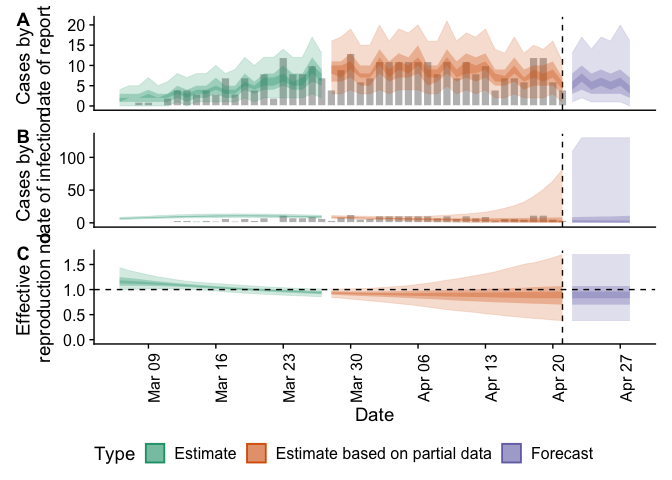
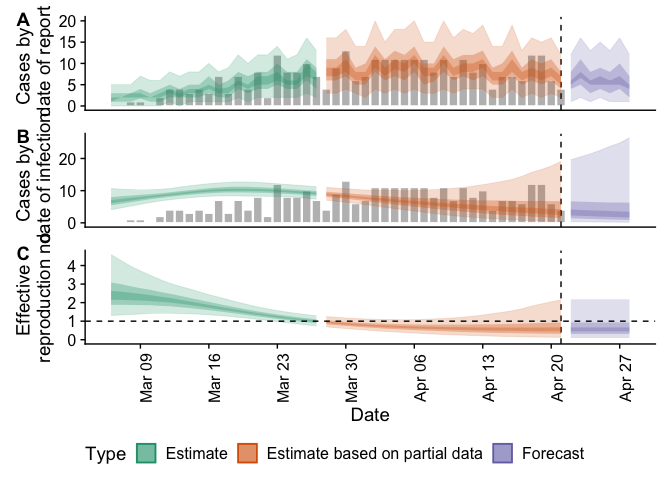
re-render report

diff --git a/inst/reports/est_trunc_epinow2.md b/inst/reports/est_trunc_epinow2.md
@@ -6,7 +6,7 @@ EpiNow2
 
 ``` r
 suppressPackageStartupMessages(library("EpiNow2"))
-suppressPackageStartupMessages(library("mpx.nowcasting")) ## devtools::install()
+suppressPackageStartupMessages(library("nowcasting.example")) ## devtools::install()
 suppressPackageStartupMessages(library("dplyr"))
 suppressPackageStartupMessages(library("ggplot2"))
 suppressPackageStartupMessages(library("rstan"))
@@ -75,16 +75,16 @@ est$dist
 ```
 
     ## $mean
-    ## [1] 2.136
+    ## [1] 2.139
     ## 
     ## $mean_sd
-    ## [1] 0.038
+    ## [1] 0.041
     ## 
     ## $sd
-    ## [1] 0.505
+    ## [1] 0.507
     ## 
     ## $sd_sd
-    ## [1] 0.037
+    ## [1] 0.039
     ## 
     ## $max
     ## [1] 23
@@ -125,7 +125,7 @@ mean
     ## # A tibble: 1 × 3
     ##     est lower upper
     ##   <dbl> <dbl> <dbl>
-    ## 1  9.65  9.11  10.2
+    ## 1  9.66  9.08  10.3
 
 # Comparison to simpler approaches
 
@@ -203,14 +203,13 @@ reported_cases <- df |>
 ## Preliminary estimate of the serial interval is 9.8 days though with high uncertainty (95% credible interval, 5.9 to 21.4).
 ## It is unclear whether this refers to the estimate of the mean, or the spread of serial intervals
 ## It is also unclear whether this is growth-adjusted
-## interpreted as log-normally distributed with 95% contained between 5.9 and 21.4:
-## => \mu*/\sigma*^2 = 5.9; \mu* * \sigma*^2 = 21.4
-## => \mu* = 11,  \sigma* = 1.4
+## interpreted as discretised gamma distributed with mean (5.9 + 21.4) / 2 = 13.65
+## with sd = sqrt(13.65) = 3.7 (THIS IS FOR ILLUSTRATION ONLY AND SHOULD NOT BE USED)
 ## (see https://en.wikipedia.org/wiki/Log-normal_distribution#Scatter_intervals)
 generation_interval <- list(
-  mean = log(11),
+  mean = 13.65,
   mean_sd = 0,
-  sd = log(1.4),
+  sd = 3.7,
   sd_sd = 0,
   max = 25
 )
@@ -244,15 +243,7 @@ inf <- estimate_infections(
   delays = delays,
   verbose = FALSE
 )
-```
 
-    ## Warning: There were 9 divergent transitions after warmup. See
-    ## https://mc-stan.org/misc/warnings.html#divergent-transitions-after-warmup
-    ## to find out why this is a problem and how to eliminate them.
-
-    ## Warning: Examine the pairs() plot to diagnose sampling problems
-
-``` r
 plot(inf)
 ```
 
